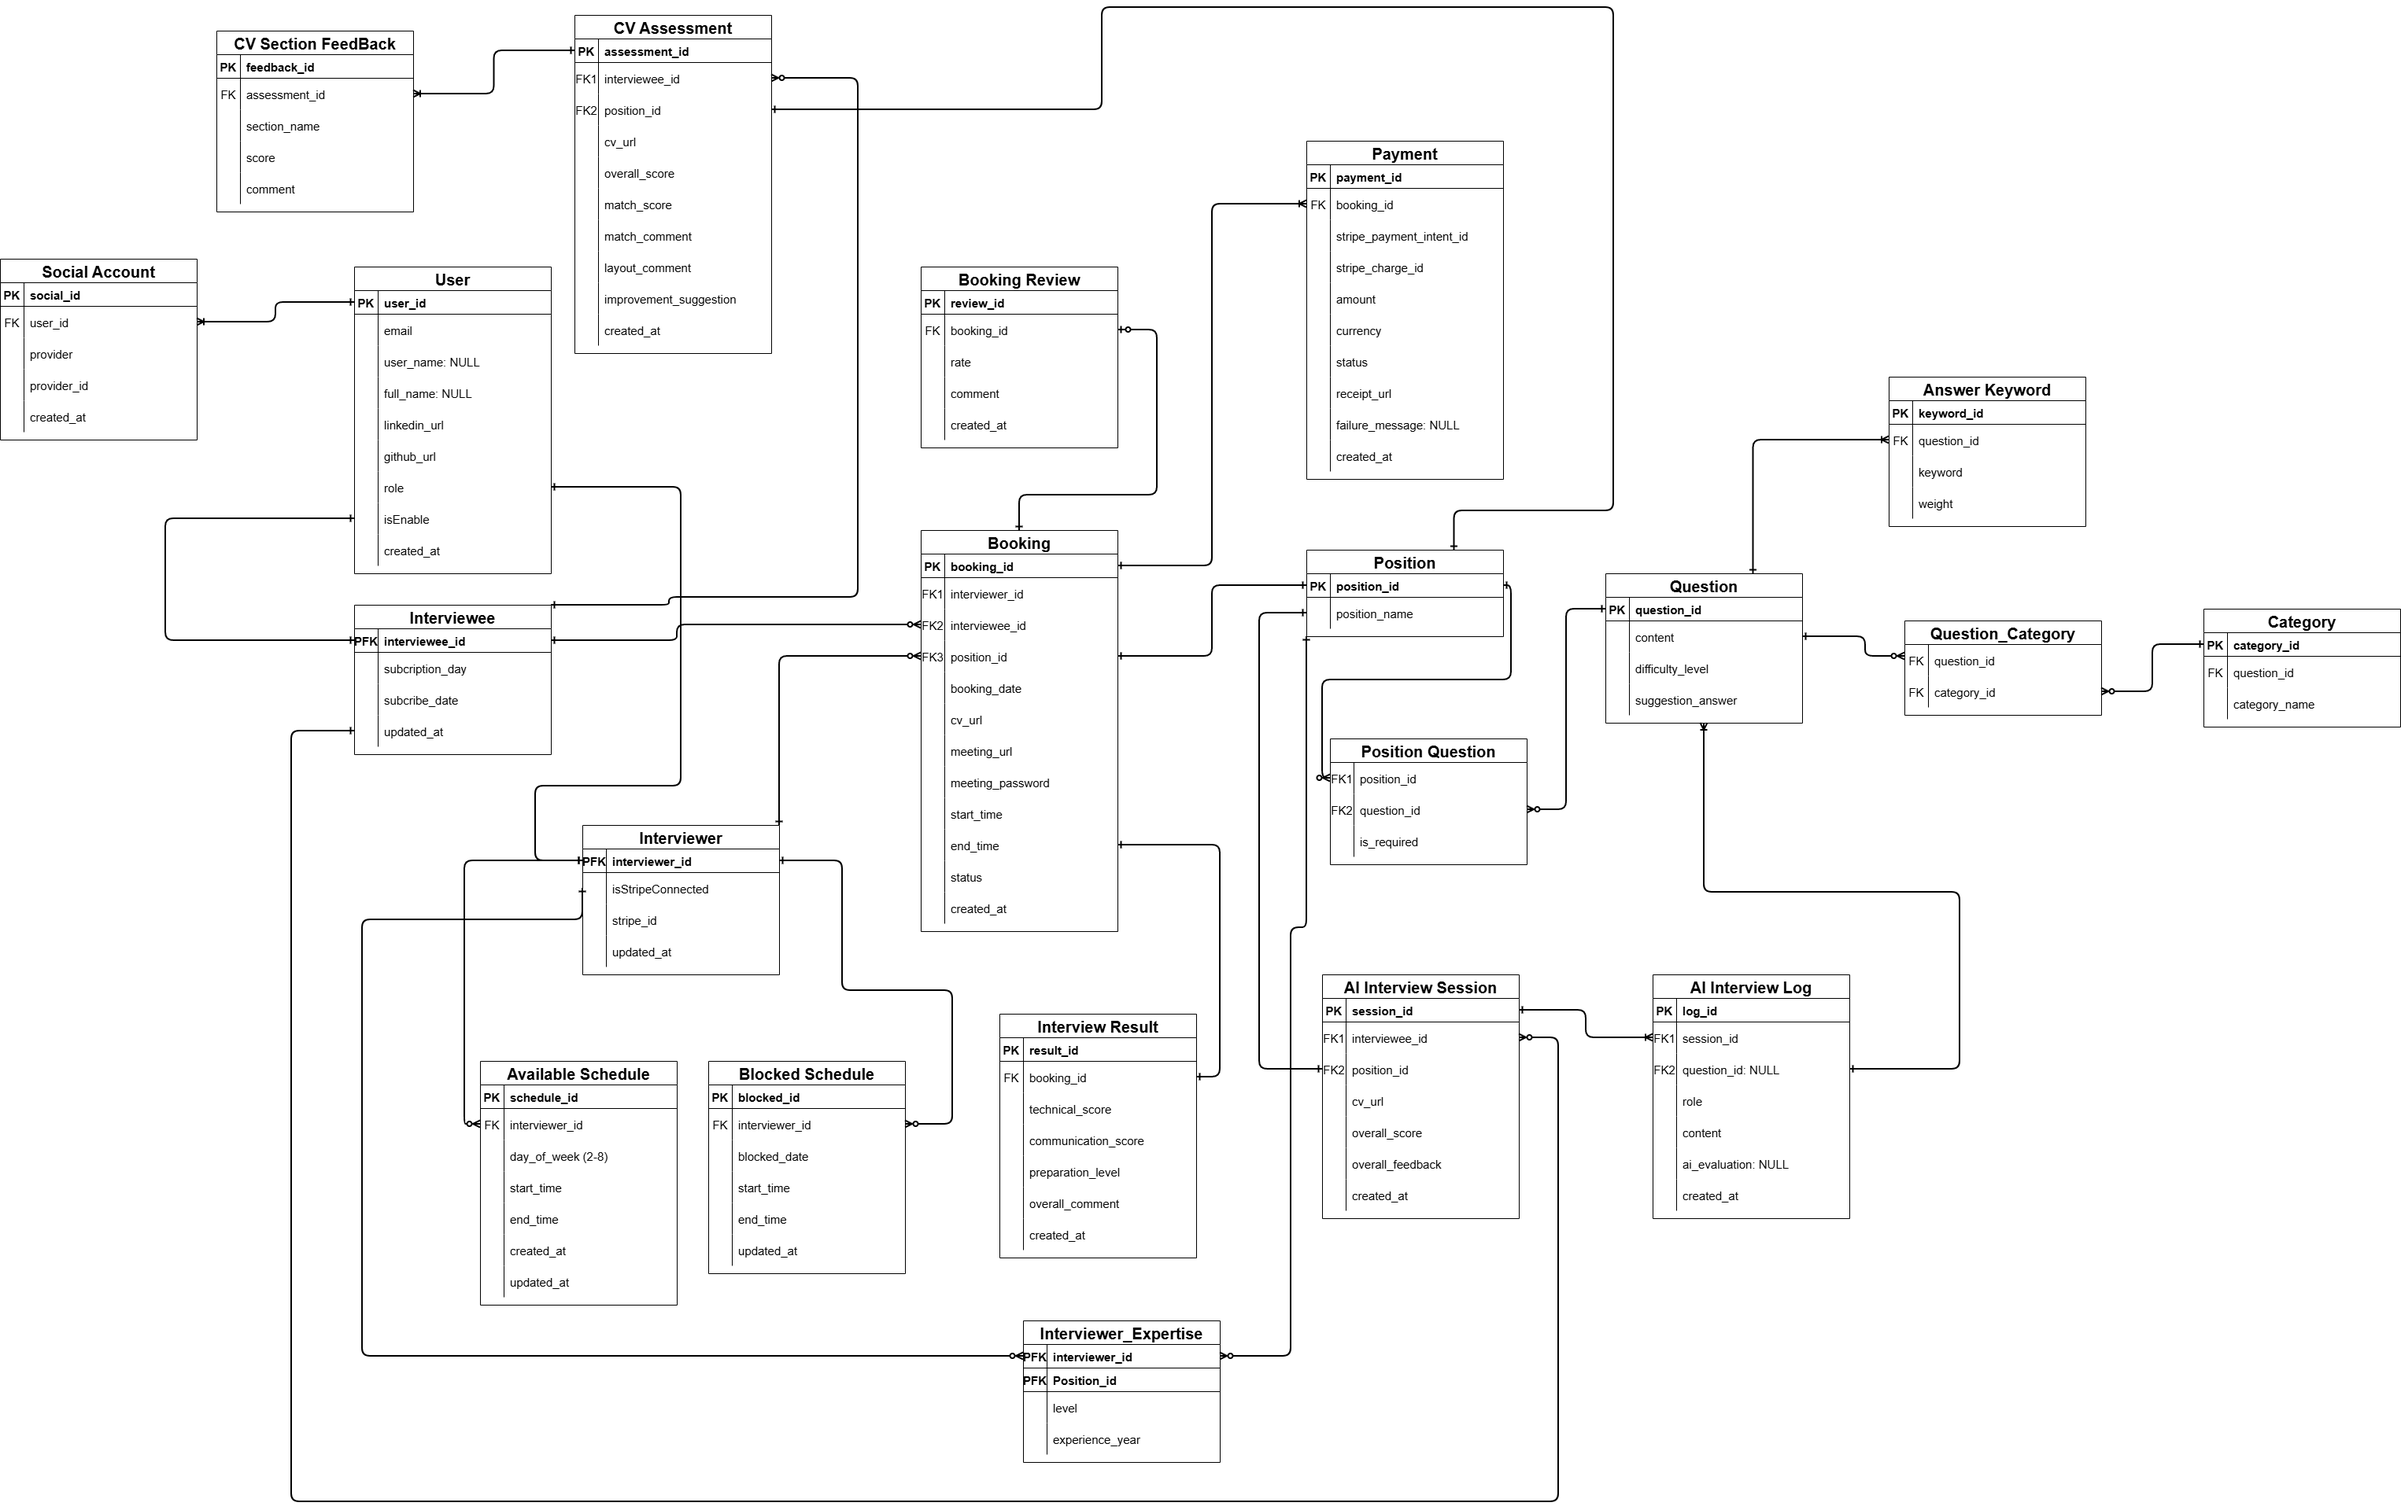
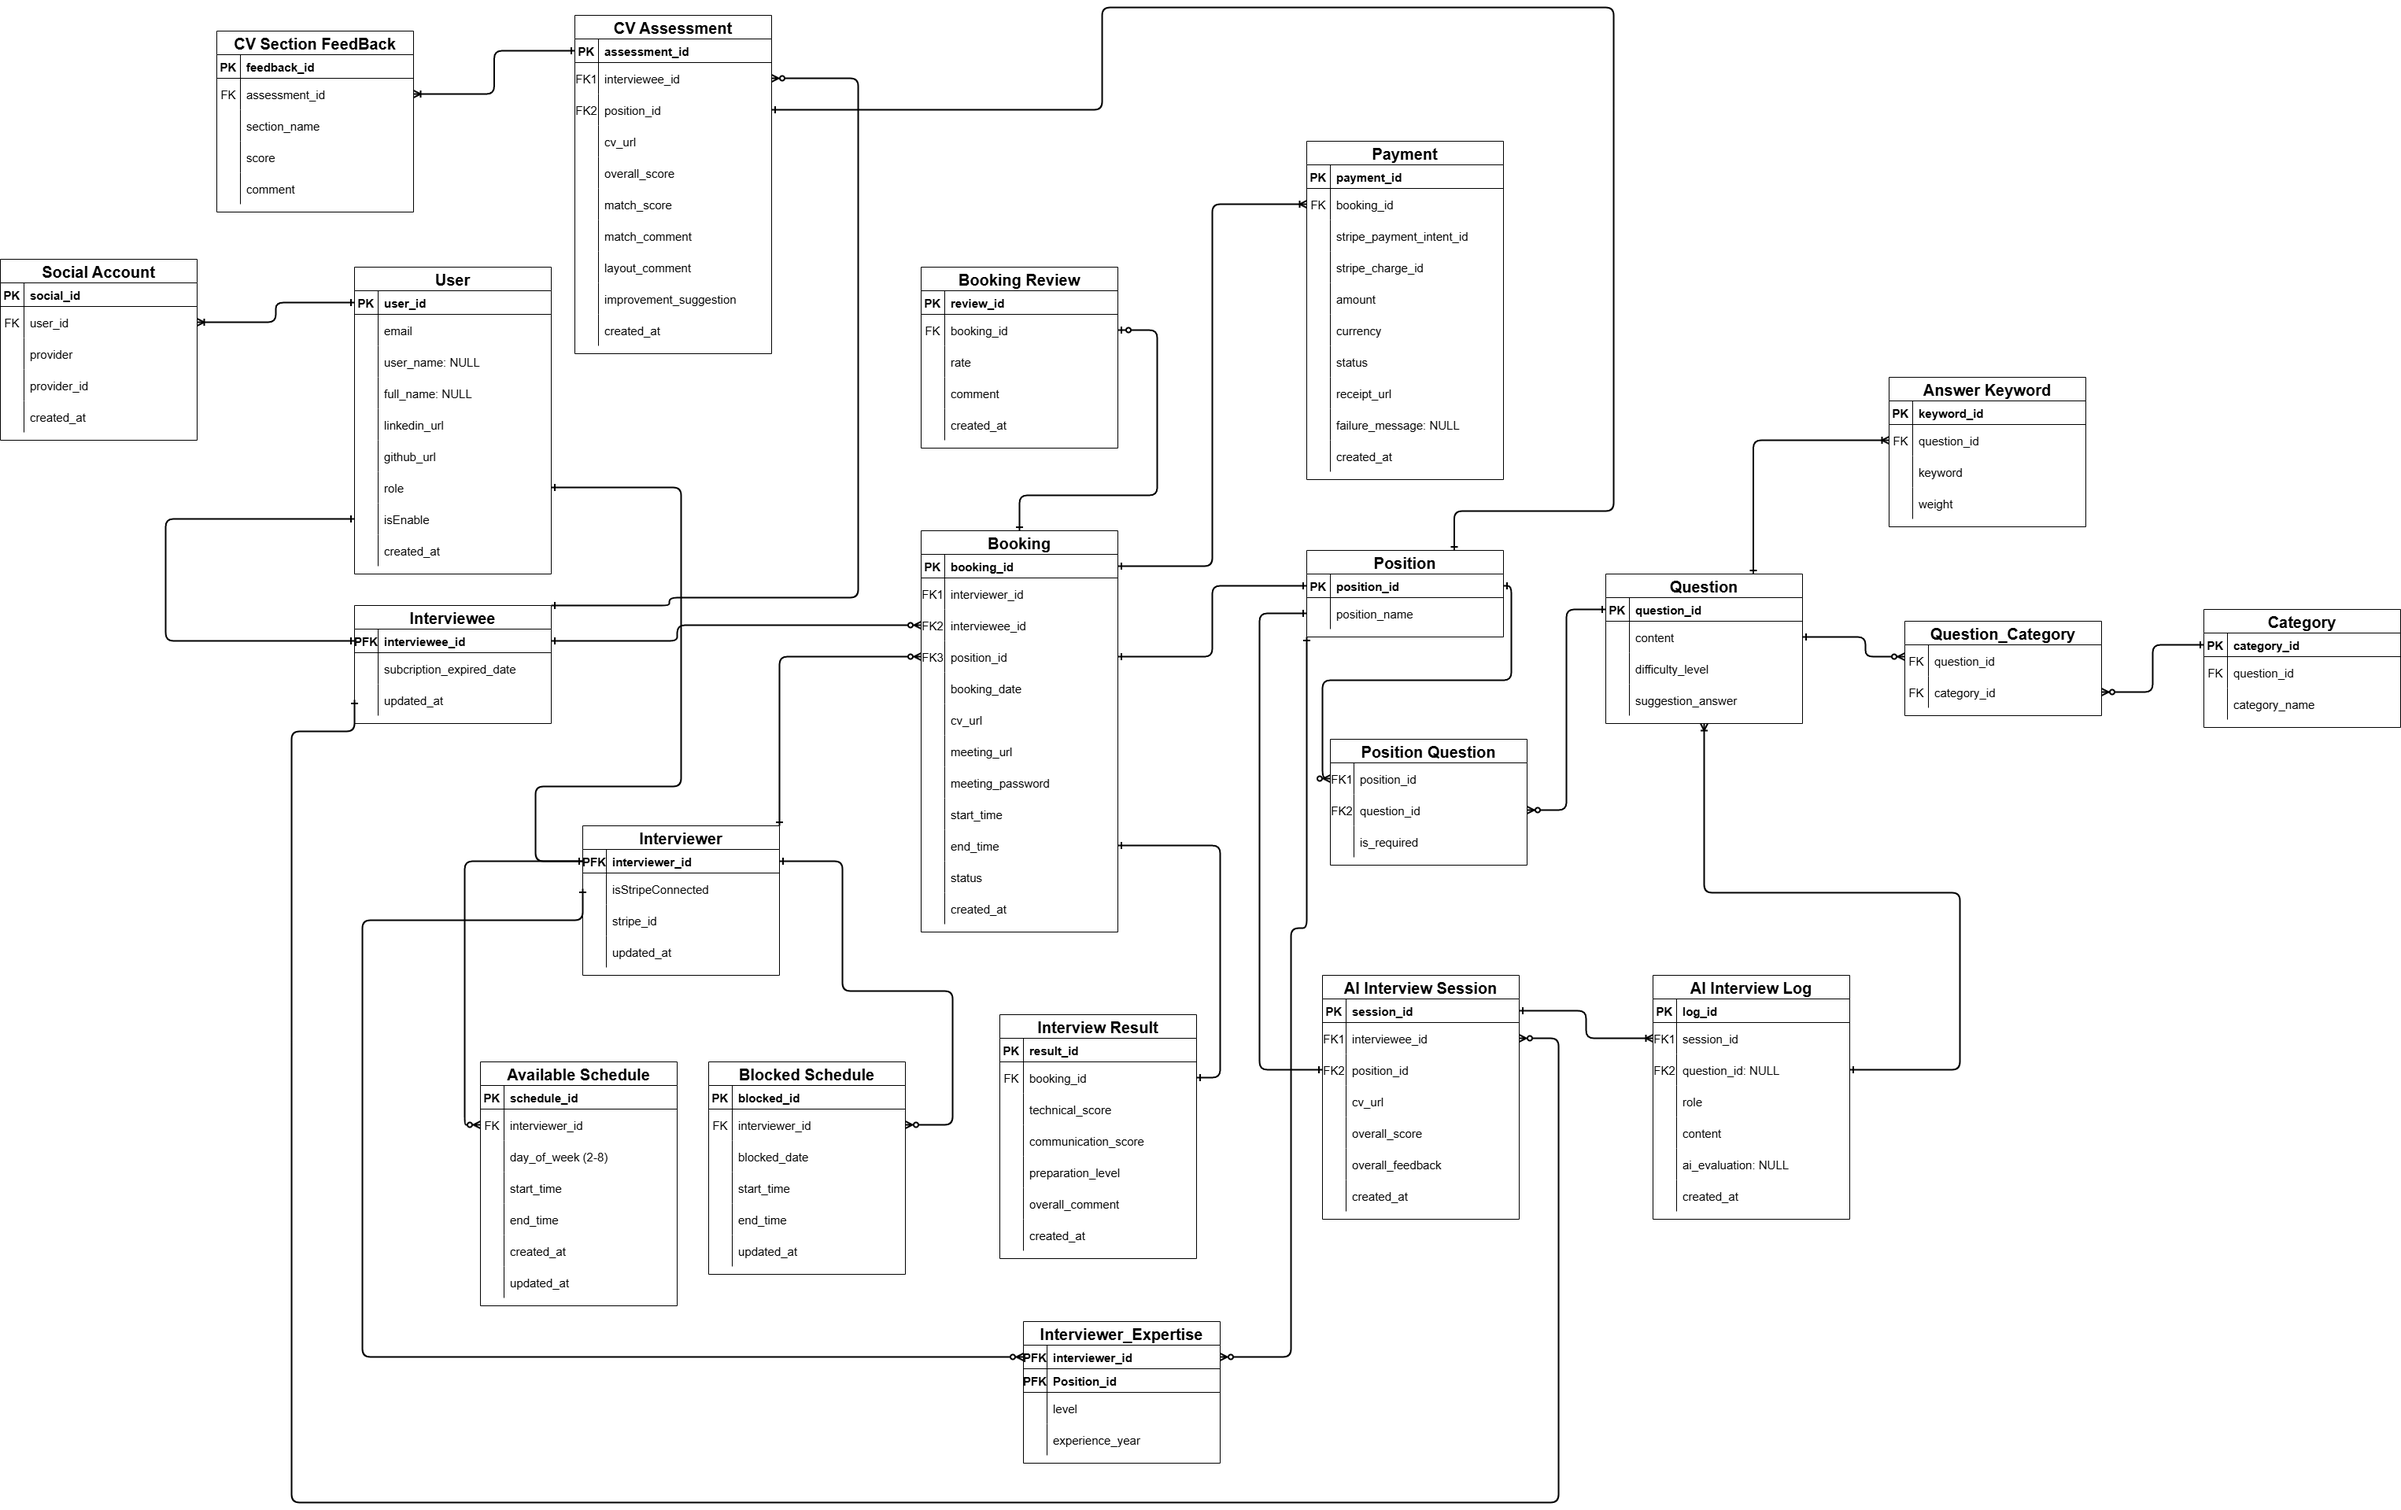
update entity and database
seperate User into interviewer and interviewee

diff --git a/src/backend/src/main/java/com/test/backend/entity/interviewee/Interviewee.java b/src/backend/src/main/java/com/test/backend/entity/interviewee/Interviewee.java
@@ -1,0 +1,55 @@
+package com.test.backend.entity.interviewee;
+
+import com.test.backend.entity.aiInterviewSession.AiInterviewSession;
+import com.test.backend.entity.booking.Booking;
+import com.test.backend.entity.cvAssessment.CVAssessment;
+import com.test.backend.entity.user.User;
+import jakarta.persistence.*;
+import jakarta.validation.constraints.Positive;
+import lombok.*;
+import org.hibernate.annotations.UpdateTimestamp;
+
+import java.time.LocalDate;
+import java.time.LocalDateTime;
+import java.util.ArrayList;
+import java.util.List;
+
+@Builder
+@Getter
+@Setter
+@NoArgsConstructor
+@AllArgsConstructor
+@Entity
+@Table(name = "interviewee")
+public class Interviewee {
+
+    @Id
+    @Column(name = "interviewee_id", nullable = false, updatable = false, unique = true)
+    private Long intervieweeId;
+
+    @OneToOne(fetch = FetchType.LAZY)
+    @MapsId // báo cho JPA: PK của Interviewee = PK của User được map ở field này
+    @JoinColumn(name = "interviewee_id") // đồng thời là PK và FK -> User.user_id
+    private User user;
+
+    @Positive
+    @Column(name = "subcription_expired_date")
+    private Long subcriptionExpiredDate;
+
+    @Column(name = "updated_at")
+    @UpdateTimestamp
+    private LocalDateTime updatedAt;
+
+    @Builder.Default
+    @OneToMany(fetch = FetchType.LAZY, cascade = CascadeType.ALL, orphanRemoval = true)
+    @JoinColumn(name = "interviewee_id", nullable = false)
+    private List<CVAssessment> cvAssessmentList = new ArrayList<>();
+
+    @Builder.Default
+    @OneToMany(mappedBy = "booker", fetch = FetchType.LAZY, cascade = CascadeType.ALL)
+    private List<Booking> bookingList = new ArrayList<>();
+
+    @Builder.Default
+    @OneToMany(mappedBy = "interviewee", fetch = FetchType.LAZY, cascade = CascadeType.ALL)
+    private List<AiInterviewSession> aiInterviewSessionList = new ArrayList<>();
+}

diff --git a/src/backend/src/main/java/com/test/backend/entity/interviewer/Interviewer.java b/src/backend/src/main/java/com/test/backend/entity/interviewer/Interviewer.java
@@ -1,0 +1,49 @@
+package com.test.backend.entity.interviewer;
+
+import com.test.backend.entity.booking.Booking;
+import com.test.backend.entity.user.User;
+import com.test.backend.interviewerExpertise.InterviewerExpertise;
+import jakarta.persistence.*;
+import jakarta.validation.constraints.Positive;
+import lombok.*;
+import org.hibernate.annotations.UpdateTimestamp;
+
+import java.time.LocalDateTime;
+import java.util.ArrayList;
+import java.util.List;
+
+@Builder
+@Getter
+@Setter
+@NoArgsConstructor
+@AllArgsConstructor
+@Entity
+@Table(name = "interviewer")
+public class Interviewer {
+    @Id
+    @Column(name = "interviewer_id", nullable = false, updatable = false, unique = true)
+    private Long interviewerId;
+
+    @OneToOne(fetch = FetchType.LAZY)
+    @MapsId // báo cho JPA: PK của Interviewee = PK của User được map ở field này
+    @JoinColumn(name = "interviewee_id") // đồng thời là PK và FK -> User.user_id
+    private User user;
+
+    @Builder.Default
+    @Column(name = "is_stripe_connected")
+    private boolean isStripeConnected = false;
+
+    @Column(name = "stripe_id")
+    private String stripeAccountId;
+
+    @Column(name = "updated_at")
+    @UpdateTimestamp
+    private LocalDateTime updatedAt;
+
+    @Builder.Default
+    @OneToMany(mappedBy = "interviewer", fetch = FetchType.LAZY, cascade = CascadeType.ALL)
+    private List<Booking> inteviewList = new ArrayList<>();
+
+    @OneToMany(mappedBy = "interviewer", cascade = CascadeType.ALL, orphanRemoval = true)
+    private List<InterviewerExpertise> expertiseList = new ArrayList<>();
+}

diff --git a/src/backend/src/main/java/com/test/backend/entity/booking/Booking.java b/src/backend/src/main/java/com/test/backend/entity/booking/Booking.java
@@ -1,7 +1,9 @@
 package com.test.backend.entity.booking;
 
 import com.test.backend.entity.bookingReview.BookingReview;
-import com.test.backend.entity.interviewerFeedback.InterviewerFeedback;
+import com.test.backend.entity.interviewResult.InterviewResult;
+import com.test.backend.entity.interviewee.Interviewee;
+import com.test.backend.entity.interviewer.Interviewer;
 import com.test.backend.entity.position.Position;
 import com.test.backend.entity.user.User;
 import jakarta.persistence.*;
@@ -56,7 +58,7 @@ public class Booking {
     // Relation
     @OneToOne(fetch = FetchType.LAZY, cascade = CascadeType.ALL)
     @JoinColumn(name = "booking_id", nullable = false, updatable = false)
-    private InterviewerFeedback interviewerFeedback;
+    private InterviewResult interviewResult;
 
     @Builder.Default
     @OneToMany(mappedBy = "booking", fetch = FetchType.LAZY)
@@ -68,11 +70,11 @@ public class Booking {
 
     @ManyToOne(fetch = FetchType.LAZY)
     @JoinColumn(name = "interviewer_id", nullable = false, updatable = false)
-    private User interviewer;
+    private Interviewer interviewer;
 
     @ManyToOne(fetch = FetchType.LAZY)
     @JoinColumn(name = "booker_id", nullable = false, updatable = false)
-    private User booker;
+    private Interviewee booker;
 
     @PrePersist
     @PreUpdate

diff --git a/src/backend/src/main/java/com/test/backend/interviewerExpertise/InterviewerExpertiseId.java b/src/backend/src/main/java/com/test/backend/interviewerExpertise/InterviewerExpertiseId.java
@@ -1,0 +1,43 @@
+package com.test.backend.interviewerExpertise;
+
+import jakarta.persistence.Column;
+import jakarta.persistence.Embeddable;
+import lombok.Getter;
+import lombok.Setter;
+
+import java.io.Serializable;
+import java.util.Objects;
+
+@Getter
+@Setter
+@Embeddable
+public class InterviewerExpertiseId implements Serializable {
+    @Column(name = "interviewer_id")
+    private Long interviewerId;
+
+    @Column(name = "position_id")
+    private Long positionId;
+
+    // bắt buộc: no-args constructor
+    public InterviewerExpertiseId() {}
+
+    public InterviewerExpertiseId(Long interviewerId, Long positionId) {
+        this.interviewerId = interviewerId;
+        this.positionId = positionId;
+    }
+
+    // bắt buộc: equals() và hashCode() dựa trên TẤT CẢ field
+    @Override
+    public boolean equals(Object o) {
+        if (this == o) return true;
+        if (!(o instanceof InterviewerExpertiseId)) return false;
+        InterviewerExpertiseId that = (InterviewerExpertiseId) o;
+        return Objects.equals(interviewerId, that.interviewerId)
+                && Objects.equals(positionId, that.positionId);
+    }
+
+    @Override
+    public int hashCode() {
+        return Objects.hash(interviewerId, positionId);
+    }
+}

diff --git a/src/backend/src/main/java/com/test/backend/entity/user/User.java b/src/backend/src/main/java/com/test/backend/entity/user/User.java
@@ -61,22 +61,8 @@ public class User {
     @OneToMany(mappedBy = "user", fetch = FetchType.LAZY, cascade = CascadeType.ALL)
     private Set<SocialAccount> socialAccountSet = new HashSet<>();
 
-    @Builder.Default
-    @OneToMany(mappedBy = "user", fetch = FetchType.LAZY, cascade = CascadeType.ALL)
-    private List<AiInterviewSession> aiInterviewSessionList = new ArrayList<>();
 
-    @Builder.Default
-    @OneToMany(fetch = FetchType.LAZY, cascade = CascadeType.ALL, orphanRemoval = true)
-    @JoinColumn(name = "user_id", nullable = false)
-    private List<CVAssessment> cvAssessmentList = new ArrayList<>();
 
-    @Builder.Default
-    @OneToMany(mappedBy = "booker", fetch = FetchType.LAZY, cascade = CascadeType.ALL)
-    private List<Booking> bookingList = new ArrayList<>();
-
-    @Builder.Default
-    @OneToMany(mappedBy = "interviewer", fetch = FetchType.LAZY, cascade = CascadeType.ALL)
-    private List<Booking> inteviewList = new ArrayList<>();
 
     public void addSocialAccount(SocialAccount socialAccount) {
         if(this.socialAccountSet == null) {

diff --git a/src/backend/src/main/java/com/test/backend/interviewerExpertise/InterviewerExpertise.java b/src/backend/src/main/java/com/test/backend/interviewerExpertise/InterviewerExpertise.java
@@ -1,0 +1,35 @@
+package com.test.backend.interviewerExpertise;
+
+import com.test.backend.entity.interviewer.Interviewer;
+import com.test.backend.entity.position.Position;
+import jakarta.persistence.*;
+import lombok.*;
+
+@Builder
+@Getter
+@Setter
+@NoArgsConstructor
+@AllArgsConstructor
+@Entity
+@Table(name = "interviewer_expertise")
+public class InterviewerExpertise {
+
+    @EmbeddedId
+    private InterviewerExpertiseId id;
+
+    @ManyToOne(fetch = FetchType.LAZY)
+    @MapsId("interviewerId") // map field "interviewerId" trong Embeddable với quan hệ này
+    @JoinColumn(name = "interviewer_id")
+    private Interviewer interviewer;
+
+    @ManyToOne(fetch = FetchType.LAZY)
+    @MapsId("positionId") // map field "positionId" trong Embeddable với quan hệ này
+    @JoinColumn(name = "position_id")
+    private Position position;
+
+    @Column(name = "level")
+    private String level;
+
+    @Column(name = "experience_year")
+    private Integer experienceYear;
+}

diff --git a/src/backend/src/main/java/com/test/backend/entity/interviewResult/InterviewResult.java b/src/backend/src/main/java/com/test/backend/entity/interviewResult/InterviewResult.java
@@ -1,4 +1,4 @@
-package com.test.backend.entity.interviewerFeedback;
+package com.test.backend.entity.interviewResult;
 
 import jakarta.persistence.*;
 import lombok.*;
@@ -12,12 +12,12 @@ import java.time.LocalDateTime;
 @NoArgsConstructor
 @AllArgsConstructor
 @Entity
-@Table(name = "inteviewer_feedback")
-public class InterviewerFeedback {
+@Table(name = "inteview_result")
+public class InterviewResult {
     @Id
     @GeneratedValue(strategy = GenerationType.IDENTITY)
-    @Column(name = "feedback_id", nullable = false, updatable = false)
-    private Long feedbackId;
+    @Column(name = "result_id", nullable = false, updatable = false)
+    private Long resultId;
 
     @Column(name = "technical_score", nullable = false, updatable = false)
     private Long technicalScore; // Thang diem 100

diff --git a/src/backend/src/main/java/com/test/backend/entity/aiInterviewSession/AiInterviewSession.java b/src/backend/src/main/java/com/test/backend/entity/aiInterviewSession/AiInterviewSession.java
@@ -1,6 +1,7 @@
 package com.test.backend.entity.aiInterviewSession;
 
 import com.test.backend.entity.aiInterviewLog.AiInterviewLog;
+import com.test.backend.entity.interviewee.Interviewee;
 import com.test.backend.entity.position.Position;
 import com.test.backend.entity.user.User;
 import jakarta.persistence.*;
@@ -47,6 +48,6 @@ public class AiInterviewSession {
     private List<AiInterviewLog> aiInterviewLogList = new ArrayList<>();
 
     @ManyToOne(fetch = FetchType.LAZY)
-    @JoinColumn(name = "user_id", nullable = false)
-    private User user;
+    @JoinColumn(name = "interviewee_id", nullable = false)
+    private Interviewee interviewee;
 }

diff --git a/src/backend/src/main/java/com/test/backend/entity/interviewResult/PreparationLevel.java b/src/backend/src/main/java/com/test/backend/entity/interviewResult/PreparationLevel.java
@@ -1,4 +1,4 @@
-package com.test.backend.entity.interviewerFeedback;
+package com.test.backend.entity.interviewResult;
 
 public enum PreparationLevel {
     WELL_PREPARED,
